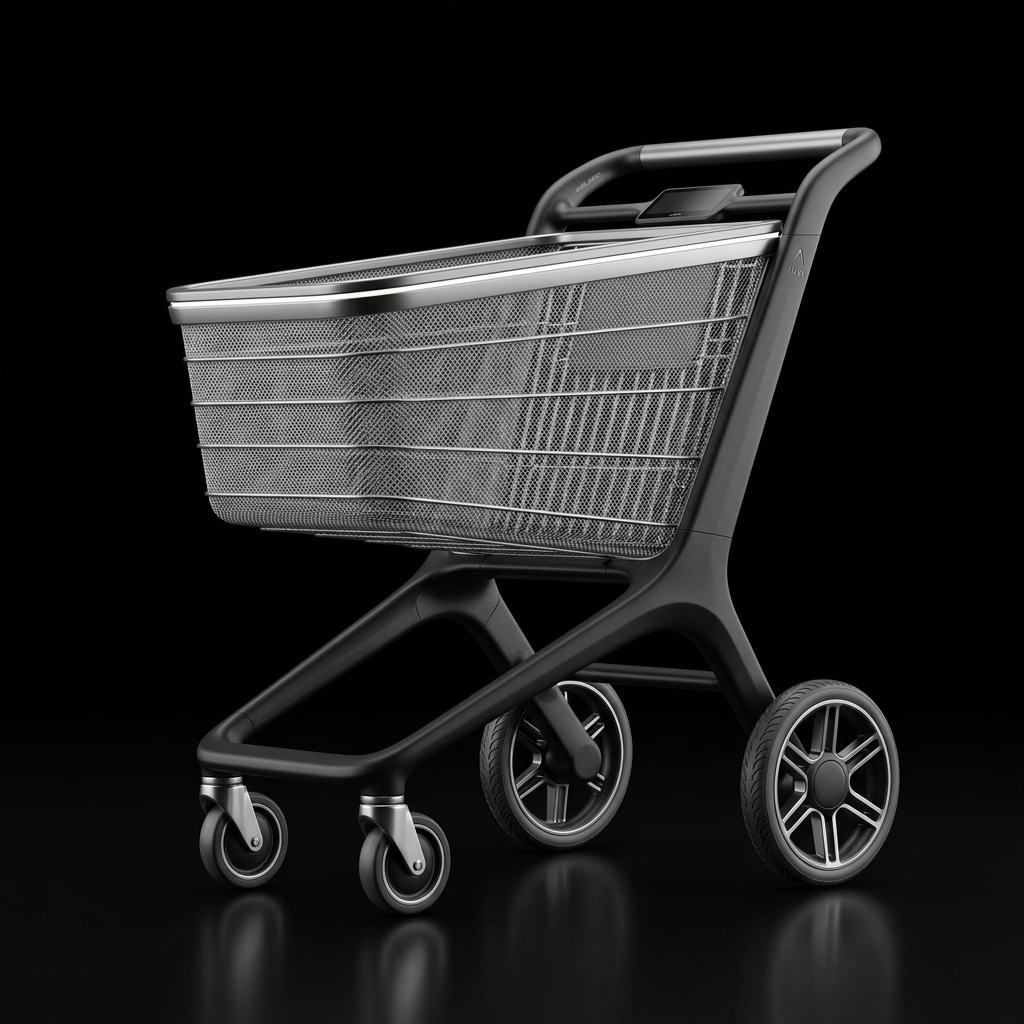
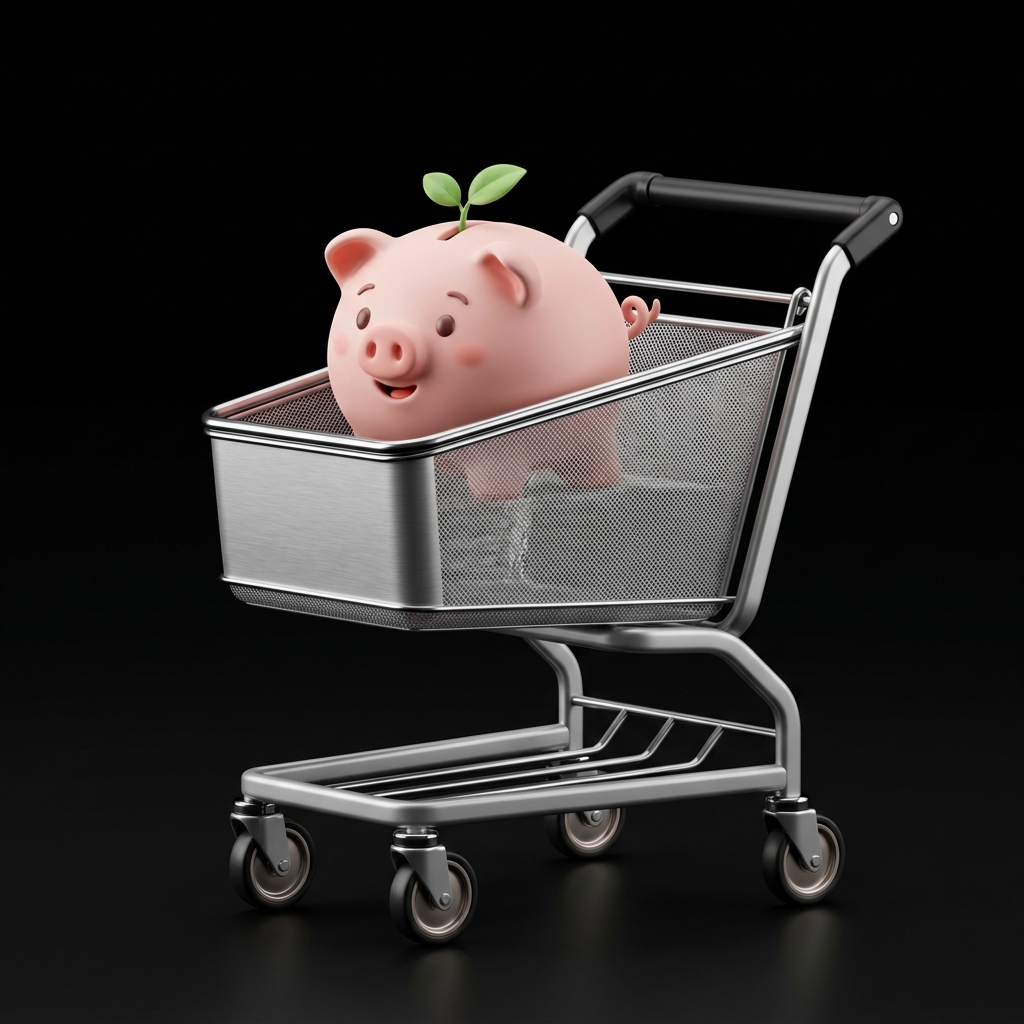
ui: update keypad button styling and replace 3D asset for TripSetup component

diff --git a/src/components/cartify/TripSetup.tsx b/src/components/cartify/TripSetup.tsx
@@ -138,8 +138,8 @@ export function TripSetup() {
                         key={btn.label}
                         onClick={() => btn.label === "⌫" ? deleteLast() : appendInput(btn.label)}
                         className={`
-                            h-full w-full rounded-[24px] flex items-center justify-center text-[28px] font-light transition-all duration-200 bg-[#151516] hover:bg-[#1A1A1B] active:scale-[0.96] border border-white/[0.04] shadow-inner
-                            ${btn.type === "num" ? "text-white/90" : "text-white/40"}
+                            h-full w-full rounded-[24px] flex items-center justify-center text-[28px] tracking-tight transition-colors duration-75 bg-white/[0.06] hover:bg-white/[0.1] active:bg-white/[0.25] backdrop-blur-md
+                            ${btn.type === "num" ? "text-white font-normal" : "text-white/40 font-medium"}
                         `}
                     >
                         {btn.label === "⌫" ? <Delete className="w-6 h-6" strokeWidth={1.5} /> : btn.label}